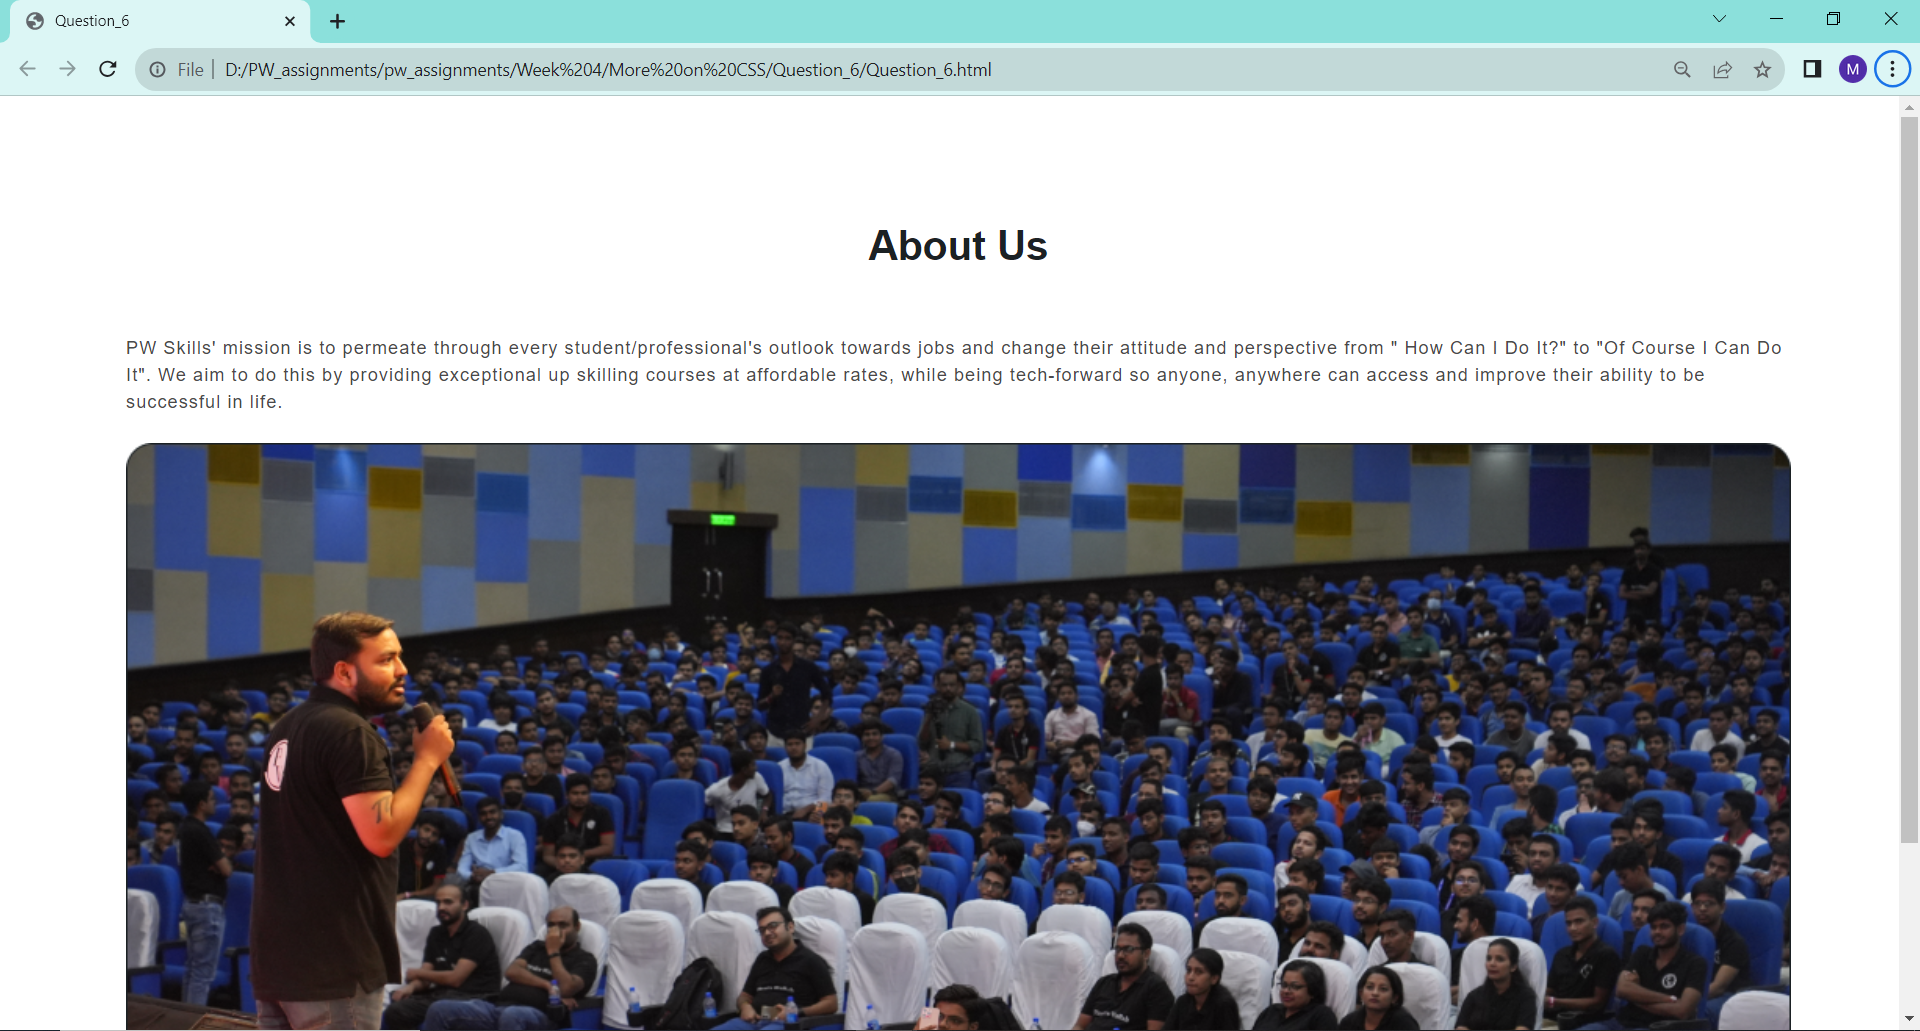
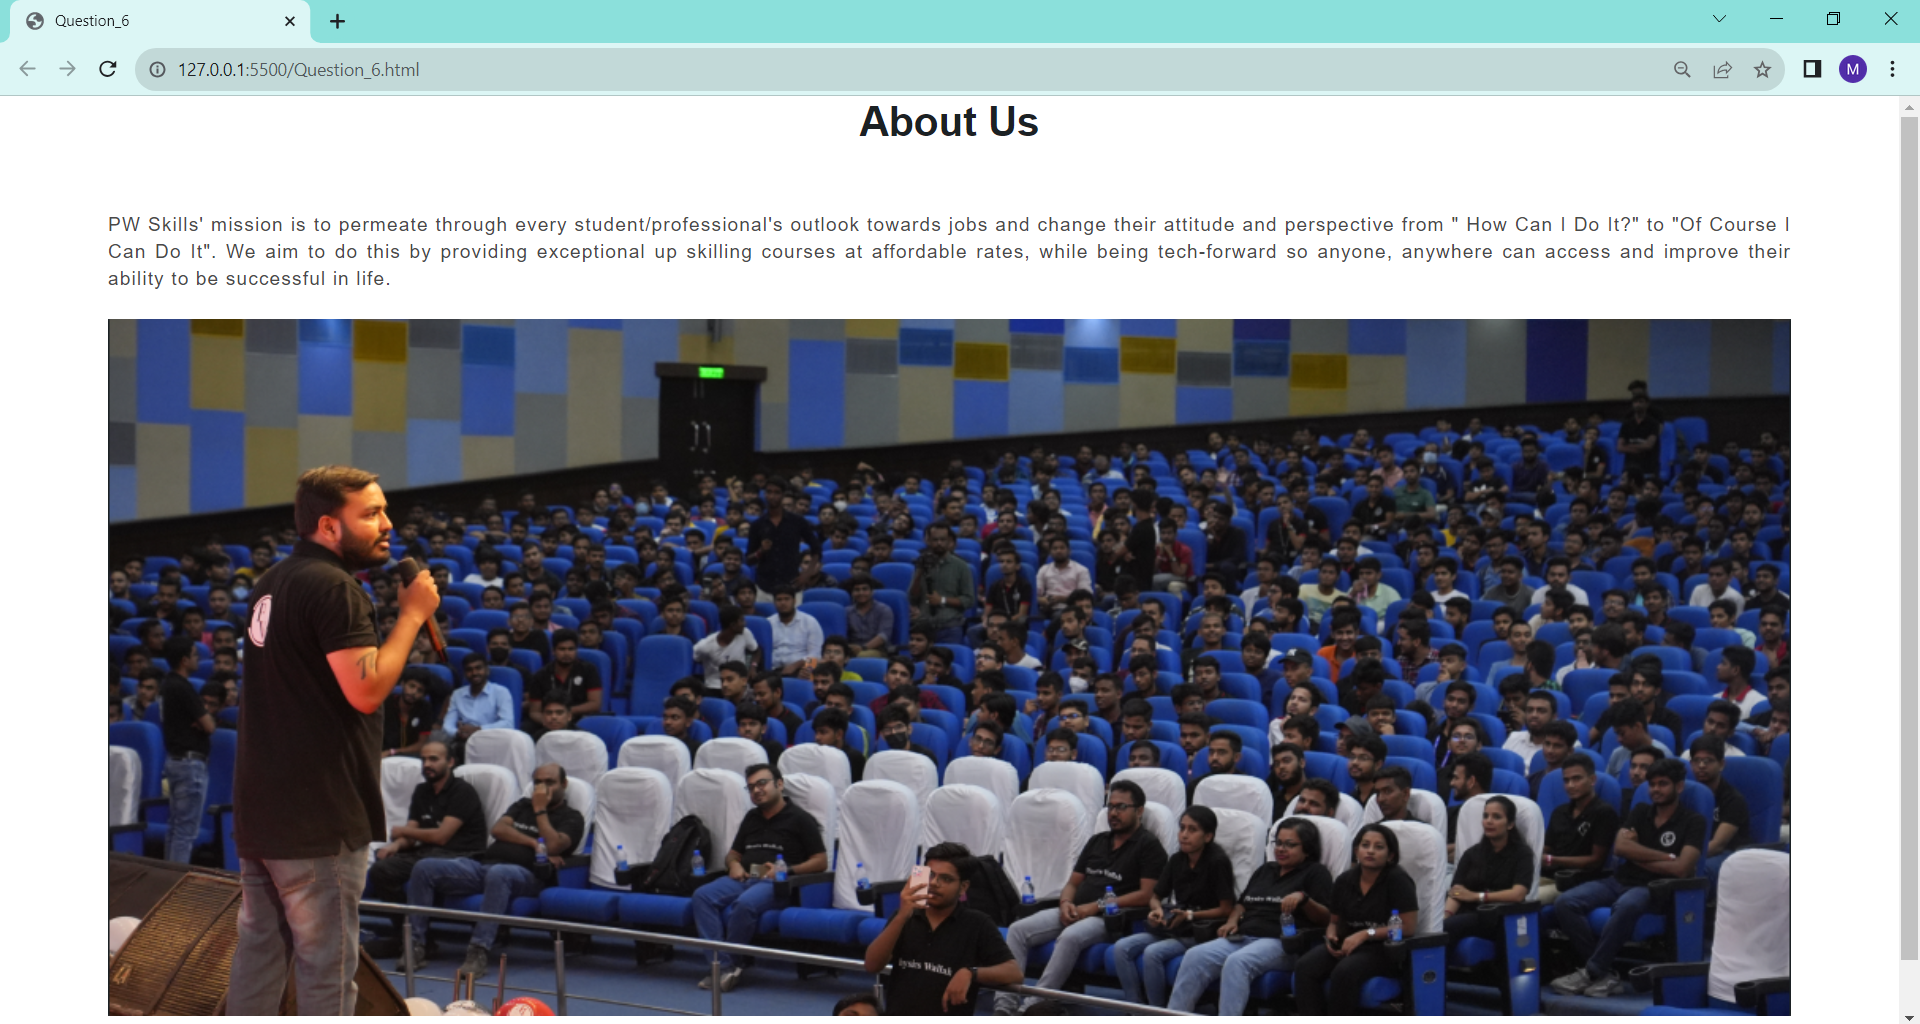
More on css

diff --git a/Week 4/More on CSS/Question_6/Question_6.css b/Week 4/More on CSS/Question_6/Question_6.css
@@ -11,14 +11,14 @@ body {
 }
 
 .main_wrapper{
-    width: 100%;
-    display: flex;
+    /* display: flex;
     flex-direction: column; 
     align-items: center; 
-    text-align: center; 
-    padding-left: 7rem;
+    text-align: center;  */
+    display: block;
+    padding-left: 6rem;
     padding-right: 6rem;
-    padding-top: 3.5rem !important;
+    padding-top: 2px;
     padding-bottom: 3.5rem !important;
 }
 h1 {
@@ -28,24 +28,26 @@ h1 {
     font-weight: 700;
     font-family: sans-serif,'Segoe UI', Tahoma, Geneva, Verdana;
     text-align: center;
-    padding: 3.5rem !important;
+    padding: 3.5rem;
     margin: 0;
+    padding-top: 0;
     display: block;
  }
  .main_wrapper p {
     width: 100%;
     letter-spacing: 1px;
     line-height: 1.5rem;
-    font-size: 1rem;
+    font-size: 17px;
     color: rgb(74, 73, 73);
     font-weight: 400;
     padding-bottom: 1.5rem;
-    text-align: left !important;
+    text-align: justify;
     margin: 0;
 } 
 
 .main_wrapper img{
     width: 100%;
     max-width: 100%;
-    height: auto;
+    height: 620px;
+    object-fit: cover;
 } 

diff --git a/Week 4/More on CSS/Question_5/Question_5.css b/Week 4/More on CSS/Question_5/Question_5.css
@@ -1,12 +1,12 @@
 body {
     margin: 0;
     padding: 0;
+    background-color: antiquewhite;
 }
 
 header {
     text-align: center;
-    background-color: gray;
-    color: white;
+    color: rgb(48, 45, 45);
     padding: 20px 0;
 }
 
@@ -14,6 +14,7 @@ header {
     font-family: "Oswald", sans-serif;
     font-size: 40px;
     margin: 0;
+    text-decoration: underline;
 }
 main{
     padding: 20px;
@@ -24,14 +25,18 @@ main{
 }
 
 img {
-    height: auto;
+    width: 500px;
+    border-radius: 10px;
     display: block;
     max-width: 100%;
 }
 
 .content {
+    text-align: justify;
+    padding: 50px;
+    padding-top: 10px;
     font-family: "Montserrat", sans-serif;
-    font-size: 18px;
+    font-size: 26px;
     line-height: 1.5;
 }
 
